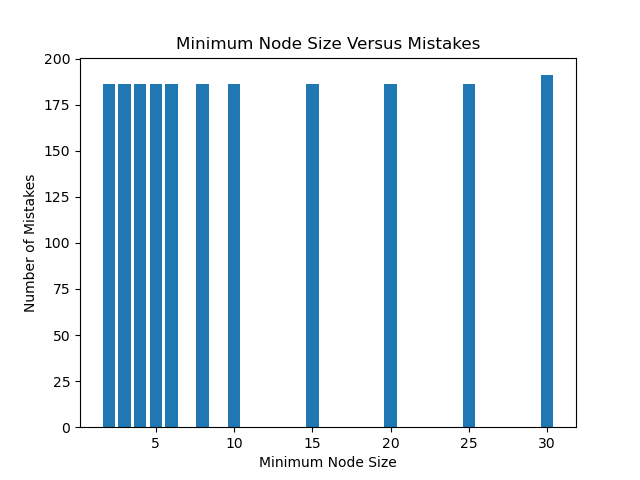
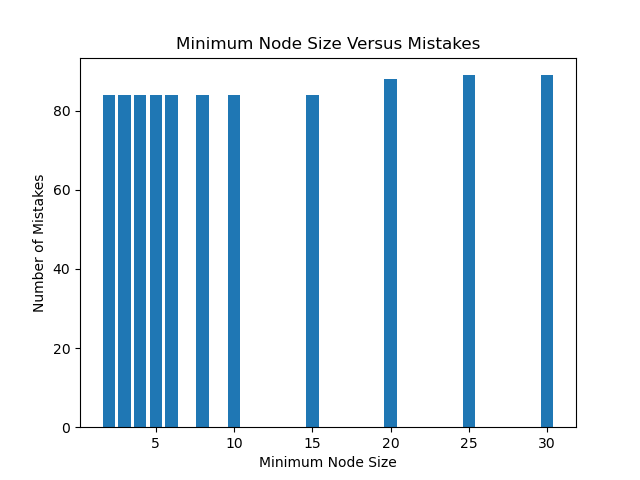
finished

diff --git a/HW07_Adams_Shin_Trainer.py b/HW07_Adams_Shin_Trainer.py
@@ -216,6 +216,9 @@ def get_lowest_gini_on_col_bool(data, col_index):
 def train(data, max_depth, min_data_records, node_purity):
     """
     data: the 2d numpy dataset that includes the true class column at the end
+    max_depth: the maximum depth
+    min_data_records: the minimum data records
+    node_purity: the purity value. need to be in decimal
     return: the decision tree
     """
     return _grow_tree(data, max_depth, min_data_records, node_purity)
@@ -223,6 +226,9 @@ def train(data, max_depth, min_data_records, node_purity):
 def _grow_tree(data, max_depth, min_data_records, node_purity, depth=0):
     """
     data: the 2d numpy dataset that includes the true class column at the end
+    max_depth: the maximum depth
+    min_data_records: the minimum data records
+    node_purity: the purity value. need to be in decimal
     depth: the depth of the decision tree
     return: the decision tree
 
@@ -453,6 +459,9 @@ if __name__ == '__main__':
 def check_accuracy(data, max_depth, min_data_records, node_purity):
     """
     data: the 2d data.
+    max_depth: the maximum depth
+    min_data_records: the minimum data records
+    node_purity: the purity value. need to be in decimal
     return: the accuracy in decimal
     The data should contain the true class column at the end.
     """
@@ -465,7 +474,11 @@ def check_accuracy(data, max_depth, min_data_records, node_purity):
 
 def check_mistakes(train_batch, test_batch, max_depth, min_data_records, node_purity):
     """
-    data: the 2d data.
+    train_batch: the training data
+    test_batch: the testing data
+    max_depth: the maximum depth
+    min_data_records: the minimum data records
+    node_purity: the purity value. need to be in decimal
     return: the number of mistakes
     The data should contain the true class column at the end.
     """
@@ -477,6 +490,13 @@ def check_mistakes(train_batch, test_batch, max_depth, min_data_records, node_pu
     return number_of_mistakes
 
 def check_depth(filename):
+    """
+    filename: the filename of the csv file
+    return:
+        depth_range -> list of depth
+        error_rate -> list of error rate
+        best depth
+    """
     MIN_DEPTH = 2
     MAX_DEPTH = (5) + 1
     MIN_DATA_RECORDS = 10
@@ -519,6 +539,14 @@ def check_depth(filename):
     return depth_range, error_rate, depth_range[index_of_min_error_rate]
 
 def check_data_records(filename, best_depth):
+    """
+    filename: the filename of the csv file
+    best_depth: the value of best depth
+    return:
+        min_data_records_list -> list of min data records
+        error_rate -> list of error rate
+        best min data records
+    """
     NODE_PURITY = 0.90
     min_data_records_list = [30, 25, 20, 15, 10, 8, 6, 5, 4, 3, 2] # node size options
     data = csv_to_array(filename)
@@ -558,6 +586,15 @@ def check_data_records(filename, best_depth):
     return min_data_records_list, error_rate, min_data_records_list[index_of_min_error_rate]
 
 def check_node_purity(filename, best_depth, best_min_data_records):
+    """
+    filename: the filename of the csv file
+    best_depth: the value of best depth
+    best_min_data_records: the value of best min data records
+    return:
+        node_purity_list -> list of min data records
+        error_rate -> list of error rate
+        best value of node purity
+    """
     node_purity_list = [70, 75, 80, 85, 90, 95, 96, 98] # purity options
     data = csv_to_array(filename)
 
@@ -604,16 +641,16 @@ if __name__ == '__main__':
     else:
         parameter = parameter[0]
         depth_range, depth_error_rate, best_depth = check_depth("train_400.csv")
-        min_data_records_list, data_records_error_rate, best_min_data_records = check_data_records(parameter, best_depth)
-        node_purity_list, node_purity_error_rate, best_node_purity = check_node_purity(parameter, best_depth, best_min_data_records)
+        min_data_records_list, data_records_error_rate, best_min_data_records = check_data_records("train_400.csv", best_depth)
+        node_purity_list, node_purity_error_rate, best_node_purity = check_node_purity("train_400.csv", best_depth, best_min_data_records)
         print(depth_range, depth_error_rate, best_depth)
         print(min_data_records_list, data_records_error_rate, best_min_data_records)
         print(node_purity_list, node_purity_error_rate, best_node_purity)
 
         data = csv_to_array(parameter)
-        tree = _grow_tree(data, 4, 25, best_node_purity)
+        tree = _grow_tree(data, best_depth, best_min_data_records, (best_node_purity*0.01))
         writeClassifierProgram(tree)
         data = csv_to_array(parameter)
-        accuracy = check_accuracy(data, 4, 25, 70)
+        accuracy = check_accuracy(data, best_depth, best_min_data_records, (best_node_purity*0.01))
         print(accuracy)
 

diff --git a/HW07_Classifier_Adams_Shin.py b/HW07_Classifier_Adams_Shin.py
@@ -17,27 +17,12 @@ def predict(data):
 
 	for row in data:
 		if( row[2] < 9.8814697265625):
-			if( row[3] < 8.86363636363636):
-				if( row[2] < 6.9449573863636385):
-					class_val="+1"
-				else:
-					class_val="+1"
-			else:
-				if( row[2] < 8.990411931818183):
-					class_val="+1"
-				else:
-					class_val="+1"
+			class_val="-1"
 		else:
 			if( row[3] < 9.816938920454549):
-				if( row[4] < 5.863636363636367):
-					class_val="-1"
-				else:
-					class_val="-1"
+				class_val="-1"
 			else:
-				if( row[4] < 4.136363636363636):
-					class_val="-1"
-				else:
-					class_val="+1"
+				class_val="+1"
 		print(class_val)
 		file_object.write(class_val + '\n')
 	file_object.close()
